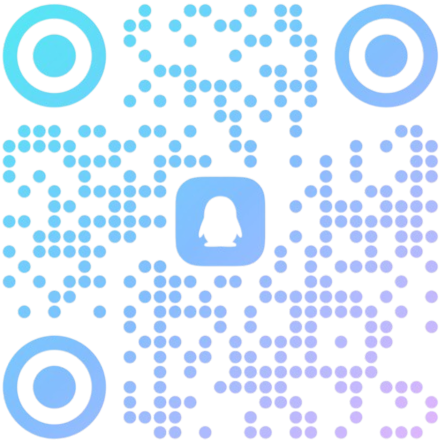
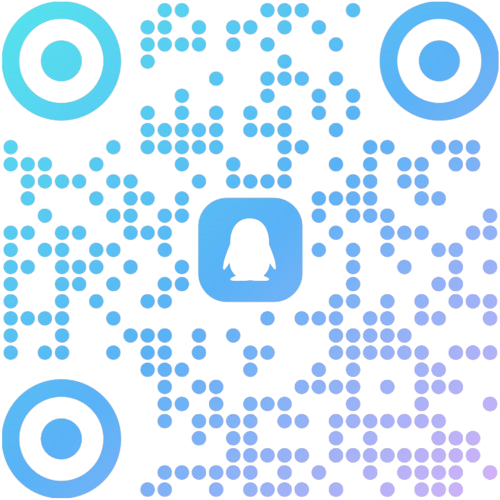
feat: update qrcode and disable max-age for static serving

diff --git a/client/src/components/Navbar/components/Actions/components/QRCodeModal.svelte b/client/src/components/Navbar/components/Actions/components/QRCodeModal.svelte
@@ -1,7 +1,9 @@
 <script lang="ts">
+	import toast from 'svelte-french-toast';
+	import { Check, Download, Files } from 'lucide-svelte';
+
 	import qrcode from './images/qrcode.png';
 	import Modal from '$components/Modal/Modal.svelte';
-	import { Check, Download, Files } from 'lucide-svelte';
 
 	export let showModal = false;
 
@@ -9,7 +11,7 @@
 	const groupId = '1002668803';
 
 	function handleCopy() {
-		if (!navigator.clipboard) return;
+		if (!navigator.clipboard) return toast.error('当前浏览器环境不支持复制操作');
 
 		copied = true;
 		navigator.clipboard.writeText(groupId);
@@ -29,44 +31,40 @@
 		<img src={qrcode} alt="qrcode" />
 
 		<div class="flex flex-row items-center gap-2 mt-4">
-			<p>{`群号: ${groupId}`}</p>
+			<p class="text-gray-600">
+				<span>群号: </span>
+				<span>{groupId}</span>
+			</p>
 
-			<button type="button" on:click={handleCopy} class="copy-btn" aria-label="copy">
+			<button type="button" on:click={handleCopy} class="btn" aria-label="copy">
 				<div class:active={copied}>
 					<Check size={16} />
 				</div>
 
 				<div class:active={!copied}>
-					<Files size={16} />
+					<Files size={14} />
 				</div>
 			</button>
-		</div>
 
-		<button type="button" aria-label="download" class="download-btn" on:click={handleDownload}>
-			<Download size={32} />
-		</button>
+			<button type="button" aria-label="download" class="btn" on:click={handleDownload}>
+				<Download size={16} />
+			</button>
+		</div>
 	</div>
 </Modal>
 
 <style>
 	.wrapper {
-		@apply bg-white rounded-xl;
-		@apply w-full sm:w-fit sm:h-full flex flex-col items-center justify-center p-10 gap-1;
+		@apply bg-white rounded-xl flex flex-col items-center justify-center p-10 gap-1;
 	}
-	img {
-		@apply max-h-full object-contain rounded-2xl;
-	}
-	.download-btn {
-		@apply text-gray-800;
-	}
-	.copy-btn {
-		@apply w-7 aspect-square relative text-gray-600 rounded-full bg-black/10;
+	.btn {
+		@apply w-7 aspect-square relative text-gray-600 rounded-full bg-black/10 grid place-content-center;
 
 		& div {
 			@apply absolute top-1/2 left-1/2 -translate-y-1/2 -translate-x-1/2 scale-0 invisible opacity-0;
 
 			&.active {
-				@apply scale-100 visible opacity-100 duration-300;
+				@apply transform scale-100 visible opacity-100 duration-300;
 			}
 		}
 	}

diff --git a/server/routes/static.go b/server/routes/static.go
@@ -13,6 +13,5 @@ func ServeStatic(app *fiber.App, staticFiles embed.FS) {
 		Root:       http.FS(staticFiles),
 		PathPrefix: "build",
 		Browse:     true,
-		MaxAge:     60 * 60 * 24 * 30,
 	}))
 }
